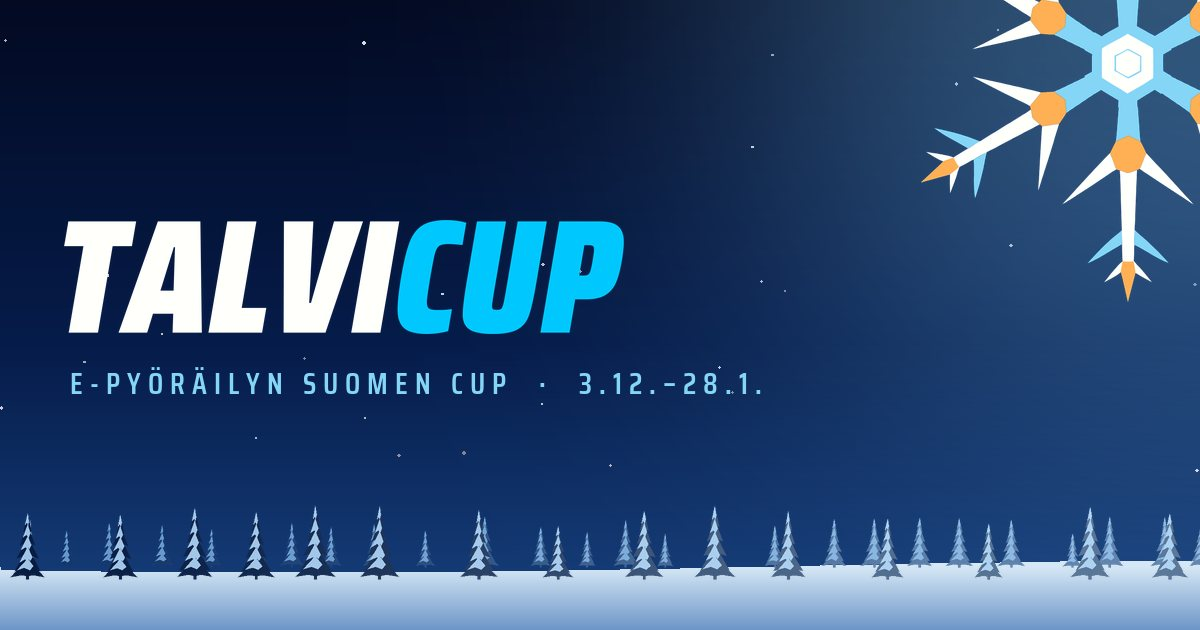
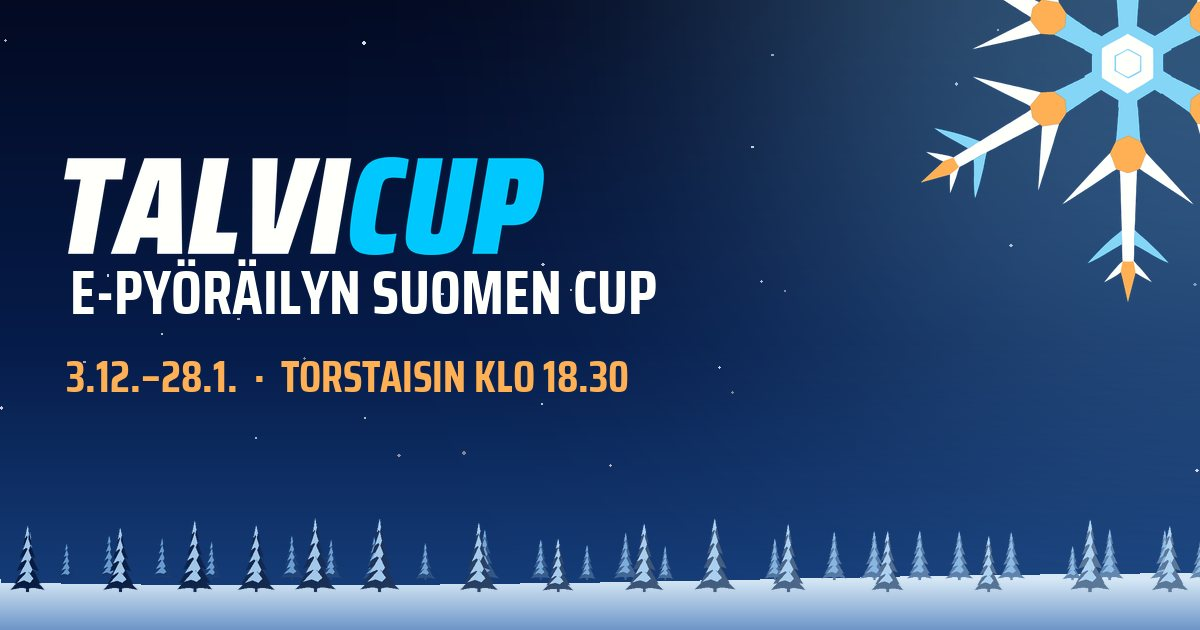
Jakokuva: sarjan nimi ja päivät

Changed region(s): [[0.0308, 0.2413, 0.555, 0.5429], [0.0, 0.8143, 1.0, 0.9349], [0.0308, 0.573, 0.6475, 0.6333]]

diff --git a/tyokalut/tee_kuvat.py b/tyokalut/tee_kuvat.py
@@ -42,13 +42,8 @@ def images():
     for r in tk.races():
         tk.flake(240, active=(r["n"],)).save(SITE / f"hiutale_{r['n']}.webp", quality=88, method=6)
 
-    # Link preview (1200x630): the cropped flake (D) and the wordmark, readable as a thumbnail.
-    share = tk.rajattu((1200, 630), base=.9)
-    wm = tk.wordmark(560)
-    share = tk.over(share, wm, (64, 220))
-    d = tk.ImageDraw.Draw(share)
-    tk.kick(d, 70, 220 + wm.height + 60, "E-PYÖRÄILYN SUOMEN CUP  ·  3.12.–28.1.", 30, tk.ICE)
-    share.save(SITE / "jako.jpg", quality=84, optimize=True)
+    # Link preview (1200x630): the cropped flake (D), the series lockup and the dates, readable as a thumbnail.
+    tk.jakokuva(jakso="3.12.–28.1.  ·  TORSTAISIN KLO 18.30").convert("RGB").save(SITE / "jako.jpg", quality=84, optimize=True)
 
     tile = Image.new("RGBA", (180, 180), tk.POLAR + (255,))
     tile.alpha_composite(tk.flake(156), (12, 12))
